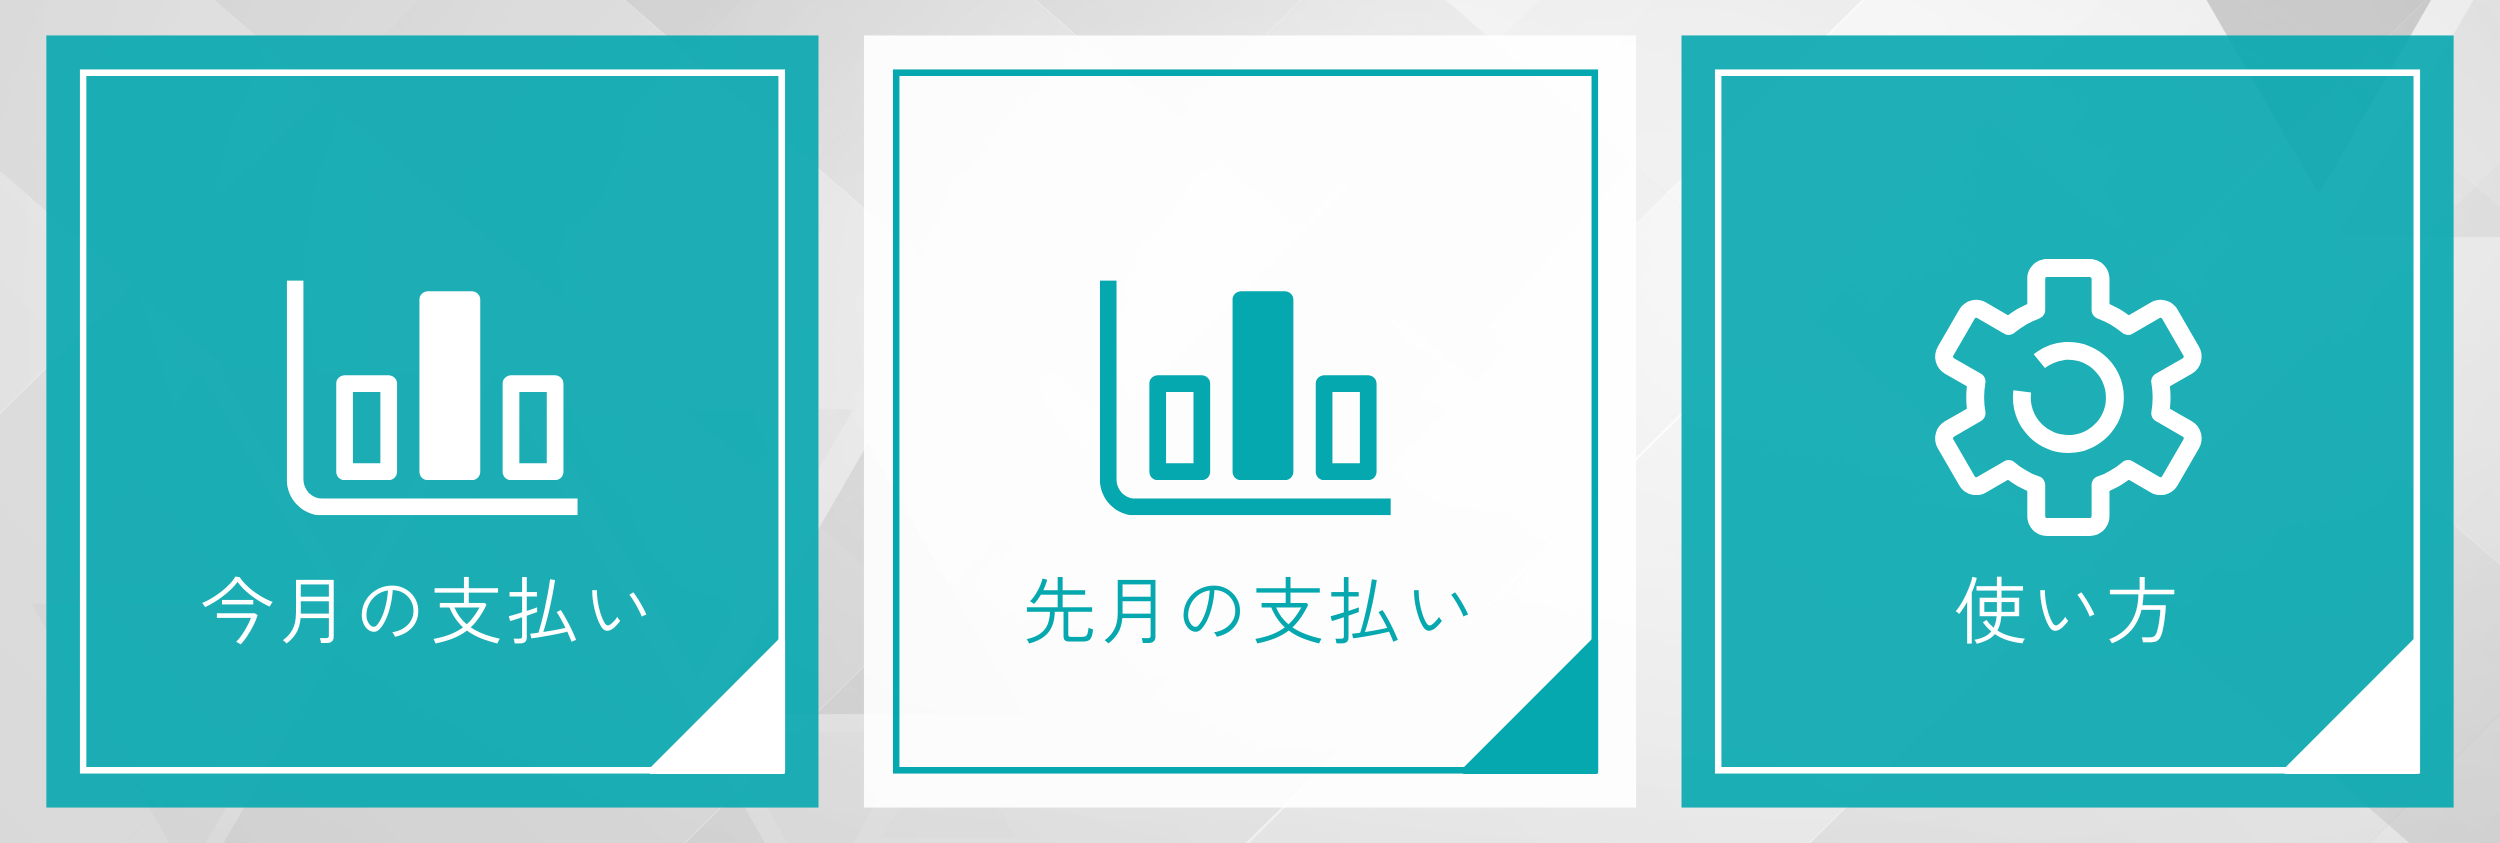
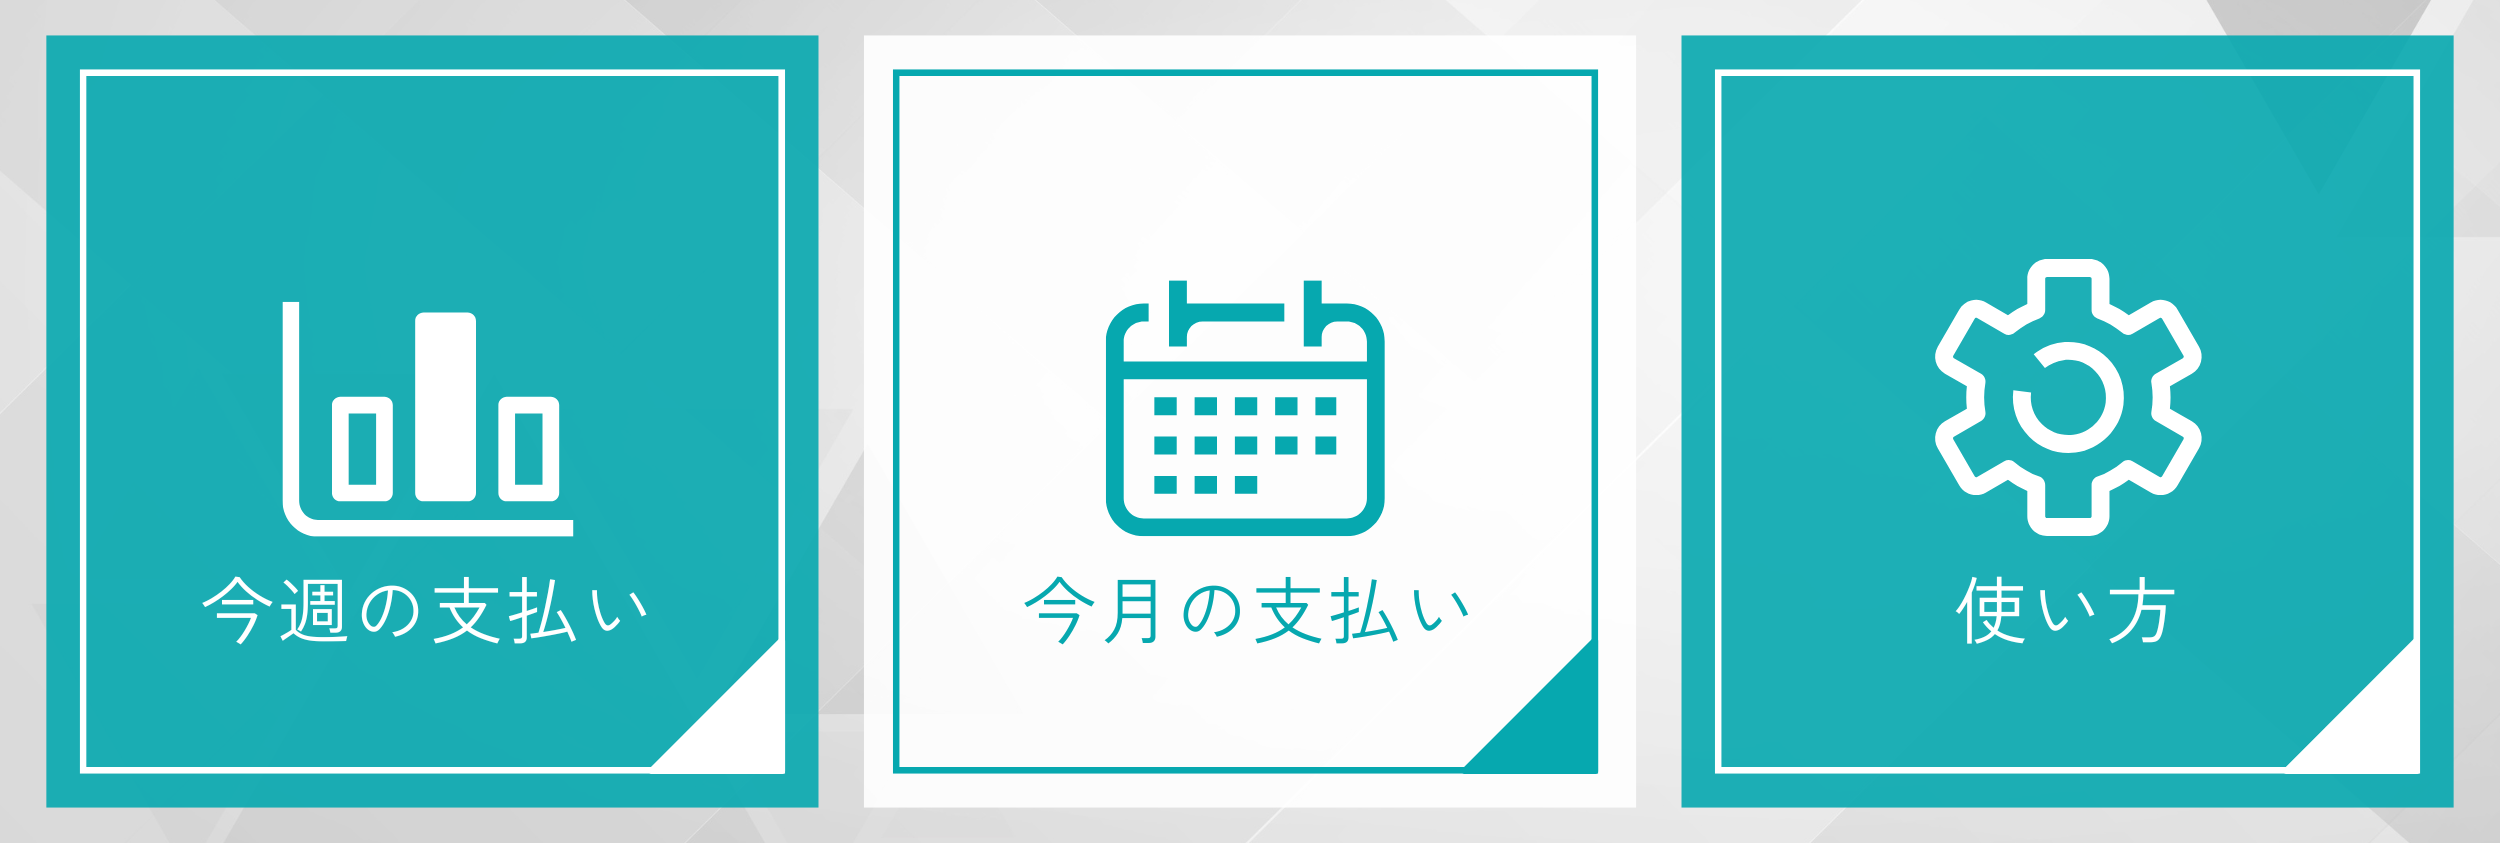
リッチメニュー更新

diff --git a/scripts/setup-rich-menu.ts b/scripts/setup-rich-menu.ts
@@ -1,10 +1,10 @@
+import * as fs from 'node:fs';
+import * as path from 'node:path';
 import { messagingApi } from '@line/bot-sdk';
-import * as fs from 'fs';
-import * as path from 'path';
 import {
 	ACTION_CURRENT_MONTH_SUMMARY,
 	ACTION_HOW_TO_USE,
-	ACTION_LAST_MONTH_SUMMARY,
+	ACTION_VIEW_WEEK_PAYMENTS,
 } from '../src/types/postback';
 
 const channelAccessToken = process.env.LINE_CHANNEL_ACCESS_TOKEN || '';
@@ -31,7 +31,7 @@ async function setupRichMenu() {
 			await client.cancelDefaultRichMenu();
 			await client.deleteRichMenu(defaultMenu.richMenuId);
 		}
-	} catch (error) {
+	} catch (_error) {
 		console.log('No existing default rich menu found');
 	}
 
@@ -49,16 +49,16 @@ async function setupRichMenu() {
 				bounds: { x: 0, y: 0, width: 833, height: 843 },
 				action: {
 					type: 'postback' as const,
-					data: JSON.stringify({ action: ACTION_CURRENT_MONTH_SUMMARY }),
-					displayText: '今月の支払い',
+					data: JSON.stringify({ action: ACTION_VIEW_WEEK_PAYMENTS }),
+					displayText: '今週の支払い',
 				},
 			},
 			{
 				bounds: { x: 833, y: 0, width: 834, height: 843 },
 				action: {
 					type: 'postback' as const,
-					data: JSON.stringify({ action: ACTION_LAST_MONTH_SUMMARY }),
-					displayText: '先月の支払い',
+					data: JSON.stringify({ action: ACTION_CURRENT_MONTH_SUMMARY }),
+					displayText: '今月の支払い',
 				},
 			},
 			{
@@ -99,7 +99,7 @@ async function setupRichMenu() {
 	}
 
 	const imageBuffer = fs.readFileSync(imagePath);
-		const image = new Blob([imageBuffer], { type: 'image/png' });
+	const image = new Blob([imageBuffer], { type: 'image/png' });
 	await blobClient.setRichMenuImage(richMenuId, image);
 	console.log('✓ Image uploaded successfully');
 
